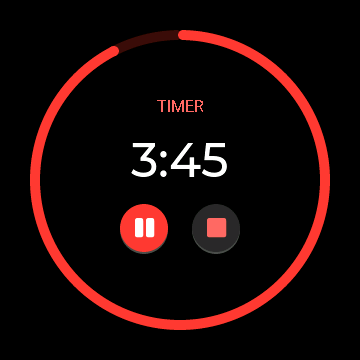
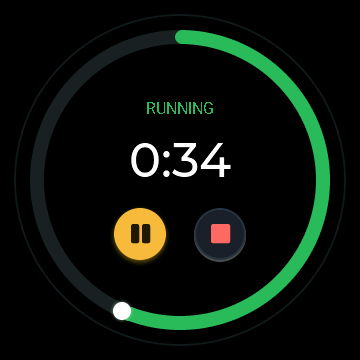
Release 2.2.2: timer + alarm redesign, player watchface fix, Minecraft timer badge; refresh timer screenshot

diff --git a/CHANGELOG.md b/CHANGELOG.md
@@ -3,6 +3,16 @@
 All notable changes to this project are documented here. The format is based on
 [Keep a Changelog](https://keepachangelog.com/en/1.1.0/).
 
+## [2.2.2] - 2026-06-19
+
+### Changed
+- Timer screen redesigned: colour-coded depleting ring (green → amber → red) with a head-dot, SET / RUNNING / PAUSED status, and tile-styled buttons with a soft glow.
+- Alarm screen redesigned: red scrim, a big pulsing bell, "TIME'S UP!" and a tap-to-stop hint.
+
+### Fixed
+- Returning to the home screen after music stops/pauses keeps the selected watchface (was forced to Classic).
+- The Minecraft watchface now shows the active-timer badge.
+
 ## [2.2.1] - 2026-06-19
 
 ### Added

diff --git a/README.md b/README.md
@@ -47,7 +47,7 @@ Everything is navigated with **swipes + taps on the screen** and the **rotary kn
 | <img src="assets/screens/weather.png" width="170"> | **Weather**<br>A 7-day dial; turn the knob to scroll days. Animated condition icon, colour-coded temperature, and a glow that slides to the selected day. |
 | <img src="assets/screens/thermostat.png" width="170"> | **Thermostat**<br>A dial for a `climate.*` entity; the knob sets the target, tap toggles on/off. Accent colour follows heating / cooling / idle. |
 | <img src="assets/screens/sensors.png" width="170"> | **Sensors**<br>A glance of 1-6 configurable Home Assistant entities, shown big one at a time; turn the knob to cycle (dots show the position). Any entity, pulled straight from HA. |
-| <img src="assets/screens/timer.png" width="170"> | **Timer**<br>Set by knob or voice; big countdown with a depleting ring, pause/stop, and an alarm when it finishes. |
+| <img src="assets/screens/timer.png" width="170"> | **Timer**<br>Set by knob or voice; big countdown with a colour-coded depleting ring (green → amber → red) and a head-dot, SET / RUNNING / PAUSED status, pause/stop, and a fancy alarm screen when it finishes. |
 | <img src="assets/screens/cool-cars.png" width="170"> | **Cool Cars**<br>A lane-racing arcade game - the knob steers, dodge traffic and grab coins. |
 | <img src="assets/screens/space-wars.png" width="170"> | **Space Wars**<br>A vertical space shooter - the knob steers, auto-fire, survive the waves. |
 | <img src="assets/screens/snake.png" width="170"> | **Snake 360**<br>A smooth-steering 360-degree snake - turn the knob to steer the head and the body trails behind, across the whole round screen. |